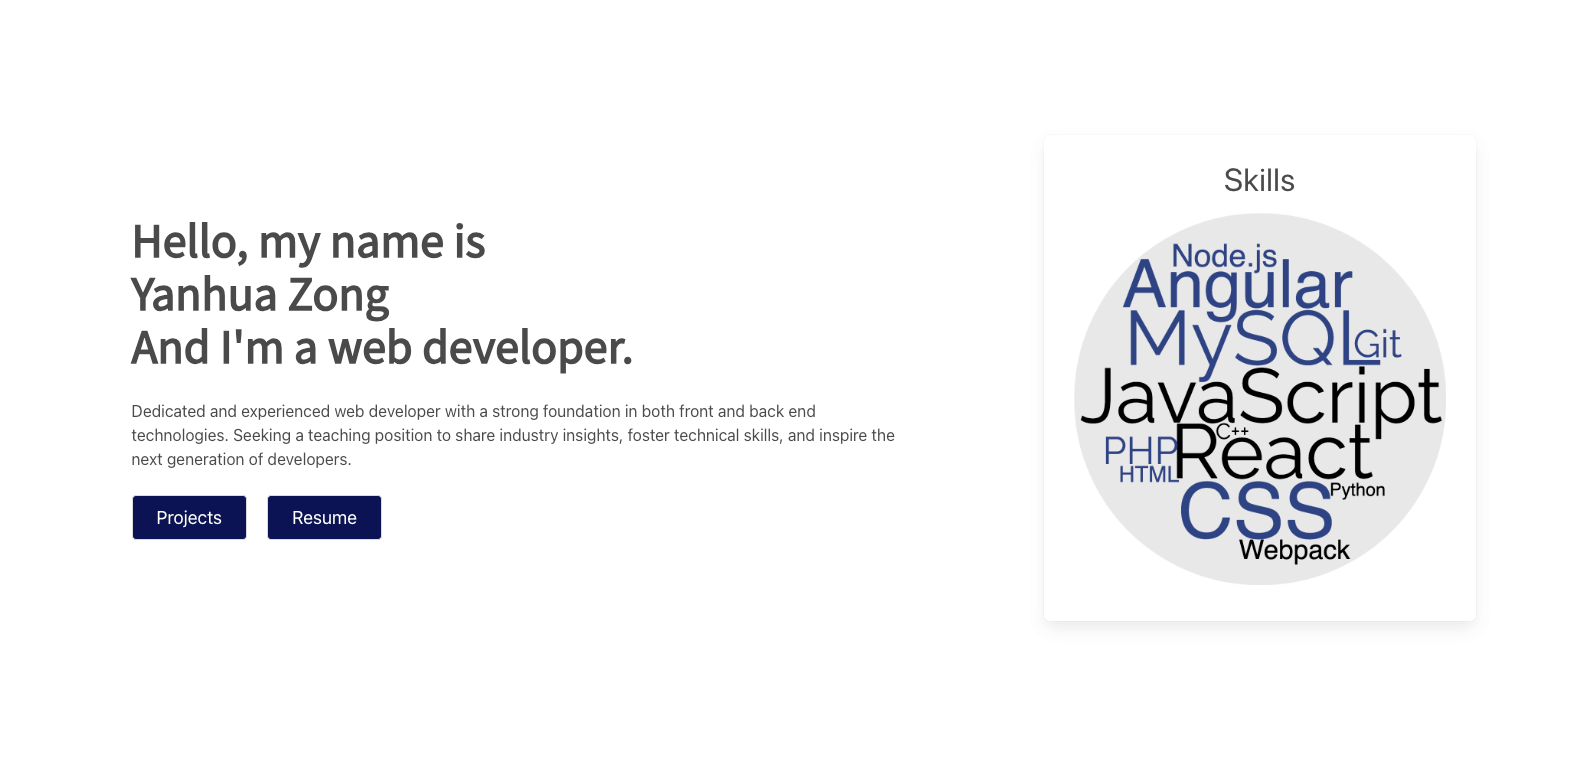
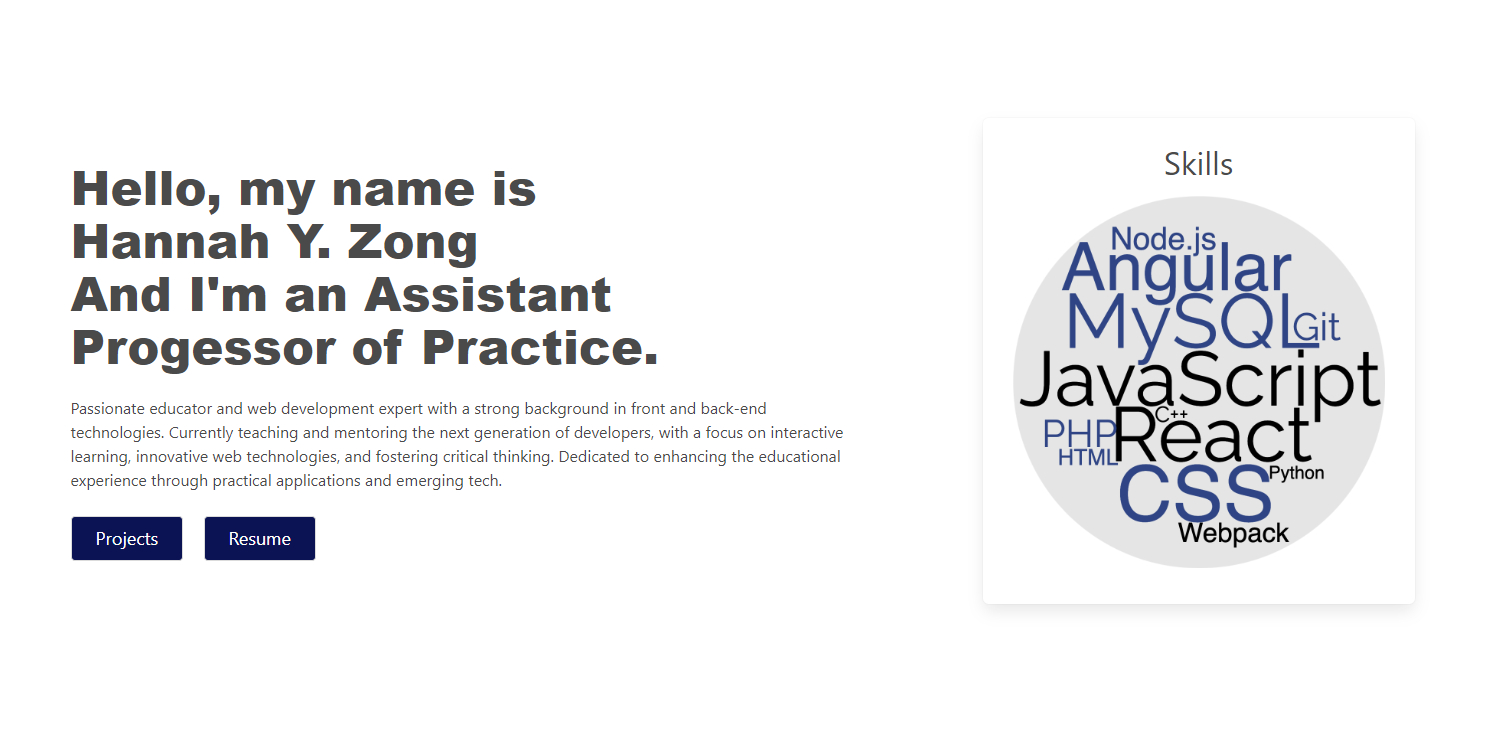
Update

Changed region(s): [[0.0312, 0.2135, 0.5618, 0.7626], [0.6866, 0.183, 0.9363, 0.7626]]

diff --git a/index.html b/index.html
@@ -4,20 +4,20 @@
 	<title>Hannah Y. Zong's Portfolio</title>
 	<meta charset="utf-8">
 	<meta name="viewport" content="width=device-width, initial-scale=1">
-	<meta name="description" content="Dedicated and experienced web developer with a strong foundation in both front and back end technologies.">
+	<meta name="description" content="Passionate educator and web development expert with a strong background in front and back-end technologies.">
 	<meta property="og:type" content="website">
 	<meta property="og:locale" content="en_US">
-	<meta property="og:site_name" content="Yanhua Zong's Portfolio">
-	<meta property="og:title" content="Yanhua Zong's Portfolio">
-	<meta property="og:description" content="Dedicated and experienced web developer with a strong foundation in both front and back end technologies.">
+	<meta property="og:site_name" content="Hannah Y. Zong's Portfolio">
+	<meta property="og:title" content="Hannah Y. Zong's Portfolio">
+	<meta property="og:description" content="Passionate educator and web development expert with a strong background in front and back-end technologies.">
 	<meta property="og:url" content="https://yanhuazong.github.io/portfolio/">
 	<meta property="og:image" content="yz-portfolio.png">
 	<meta property="og:image:width" content="1499">
 	<meta property="og:image:height" content="787">
-	<meta property="og:image:alt" content="Yanhua Zong's Portfolio">
+	<meta property="og:image:alt" content="Hannah Y. Zong's Portfolio">
 	<meta name="twitter:card" content="summary_large_image">
-	<meta name="twitter:title" content="Yanhua Zong's Portfolio">
-	<meta name="twitter:description" content="Dedicated and experienced web developer with a strong foundation in both front and back end technologies.">
+	<meta name="twitter:title" content="Hannah Y. Zong's Portfolio">
+	<meta name="twitter:description" content="Passionate educator and web development expert with a strong background in front and back-end technologies.">
 	<meta name="twitter:image" content="yz-portfolio.png">
 	<meta name="twitter:image:alt" content="Yanhua Zong's Portfolio">
 	<link rel="shortcut icon" href="favicon/favicon.ico" type="image/x-icon">
@@ -33,7 +33,7 @@
 	<nav class="navbar is-transparent" role="navigation">
 		<div class="container">
 			<div class="navbar-brand">
-				<a href="#" class="navbar-item" rel="home"><span>Y. </span><span>Zong</span></a>
+				<a href="#" class="navbar-item" rel="home"><span>H. </span><span>Zong</span></a>
 
 				<button class="icon is-large navbar-burger navbar-open" data-target="navbar-menu" aria-expanded="false"
 					aria-label="menu">
@@ -198,7 +198,7 @@
 							</a>
 						</li>
 						<li>
-							<a href="https://www.linkedin.com/in/yanhua-zong-870b86111/" target="_blank"
+							<a href="https://www.linkedin.com/in/hannah-zong-870b86111/" target="_blank"
 								aria-label="linkedIn">
 								<svg xmlns="http://www.w3.org/2000/svg"
 									viewBox="0 0 448 512"><!--!Font Awesome Free 6.5.1 by @fontawesome - https://fontawesome.com License - https://fontawesome.com/license/free Copyright 2024 Fonticons, Inc.-->
@@ -209,7 +209,7 @@
 						</li>
 					</ul>
 				</div>
-				<p>&copy; 2024 <a href="#" target="_blank"><span>Y. </span><span>Zong</span></a> | All Rights Reserved
+				<p>&copy; 2024 <a href="#" target="_blank"><span>H. </span><span>Zong</span></a> | All Rights Reserved
 				</p>
 			</div>
 		</div>
